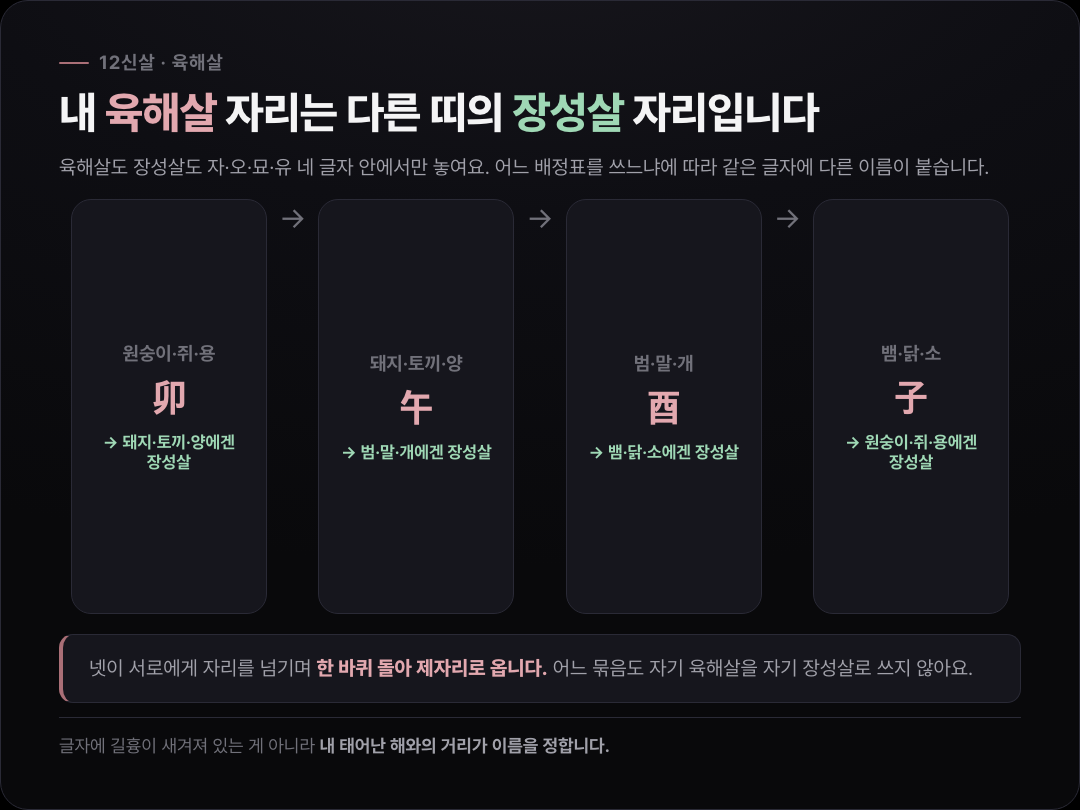
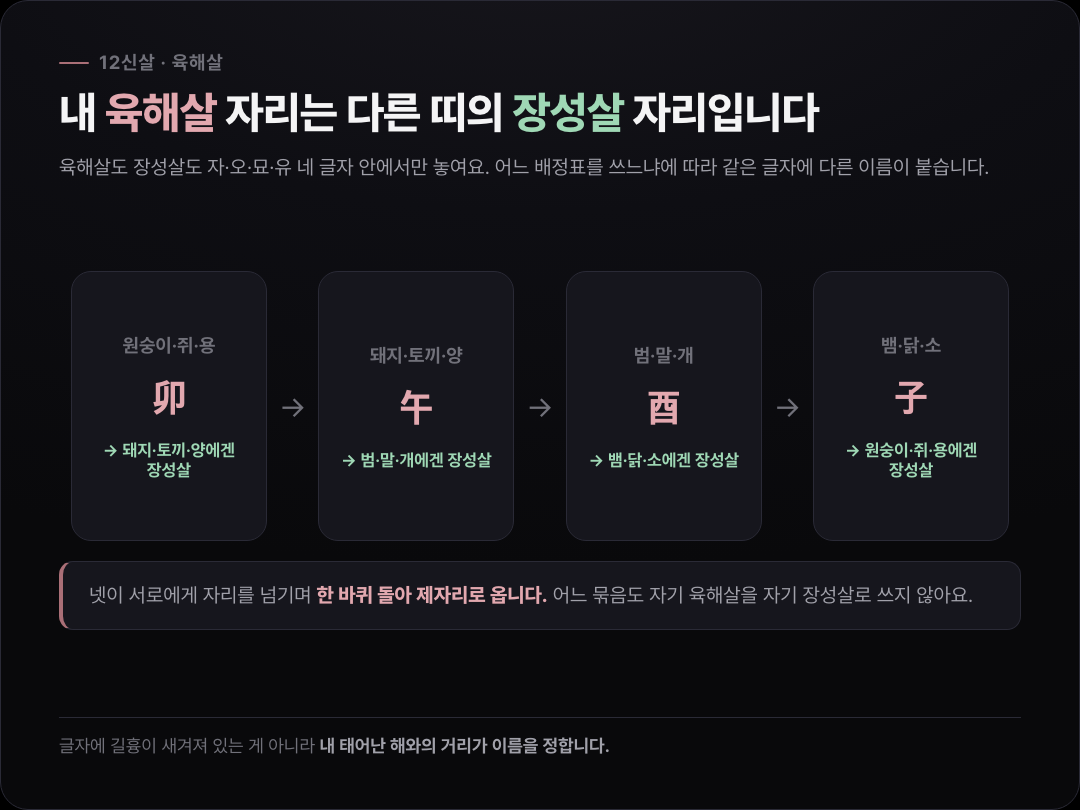
fix(stories): figure 카드 최종 손질 — 고리 레이아웃·본문 동기화·4득 서술
10장 전부 사람 눈으로 열어 본 결과 세 가지가 나왔다(검사기가 못 보는 것들이다).

① 고리 카드(yukhae-sal-1)를 밀도 CSS가 망가뜨렸다. 노드에 flex:1 을 먹이니
   화살표가 위로 뜨고 상자 속이 텅 비었다. .cyc 만 예외로 빼고 노드 자체를
   키우는(min-height 270) 쪽으로 고쳤다.
② **본문을 고치고 카드를 안 열어 옛 문장이 PNG 에 남아 있었다.** yuyoungwoo-2 가
   "네 항목 중"을 그대로 들고 있었다 — 직전 커밋에서 본문만 "판정이 도는 항목은 셋"
   으로 고쳤기 때문이다. STORIES_CHECKLIST §7-4 가 경고하는 바로 그 사고다.
③ 같은 기준으로 v-bts 도 손봤다. 시 미상인데 "네 항목 중 두 곳 확보"라고 써서
   득시가 판정 불가라는 점이 안 드러났다(§7-1.5). 본문·카드 동시 수정.

오버플로 검사기도 이번에 고쳤다. flex 자식은 부모 박스를 넘어도 부모의
boundingRect 를 안 늘려서, 직계 자식만 재던 이전 버전이 jangseong-sal-2 의
45px 침범을 두 번 통과시켰다. .body 전 자손을 훑어 .foot 상단 침범을 보도록 교체.

건의함 F3 추가: 육해살의 강조점이 엔진 한 줄("가까운 이와 갈등 주의")과
사전("만성 질병·체력 저하가 가장 크다")에서 갈린다. 고치지 않고 증거만 적었다.

Claude-Session: https://claude.ai/code/session_01Shjtfq4NG9ECa2LqmT2BBs

diff --git a/lib/stories/data/v-bts.ts b/lib/stories/data/v-bts.ts
@@ -110,7 +110,7 @@ export const vBts: Story = {
         },
         {
           kind: "p",
-          text: "강약은 [중화신강](/dict/gangyak/junghwa-singang)으로 잡혀요. 네 항목 중 태어난 달과 태어난 날 두 곳을 확보한 상태입니다. 한쪽으로 크게 기울지 않은, 가운데에 가까운 자리예요.",
+          text: "강약은 [중화신강](/dict/gangyak/junghwa-singang)으로 잡혀요. 시각이 비어 판정이 도는 항목은 셋인데, 그중 태어난 달과 태어난 날 두 곳을 확보한 상태입니다. 한쪽으로 크게 기울지 않은, 가운데에 가까운 자리예요.",
         },
       ],
     },

diff --git a/docs/REPORT_DEFECT_BOX.md b/docs/REPORT_DEFECT_BOX.md
@@ -190,6 +190,8 @@
 | F1 | **결과 화면 배지는 "년살"인데 사주사전 항목명은 "도화"다.** 엔진 `TWELVE_SHINSAL_NAMES[4]="년살"` / `dict/data/sipisinsal/dohwa.ts`의 `name:"도화"`. 사전 본문이 "12신살에서 도화는 '연살(年殺)'이라고도 부릅니다"로 별칭을 밝히긴 하나, 배지에서 본 이름으로 사전을 검색하면 항목이 안 잡힌다 | `scripts/_verify-12shinsal-table.mts` 대조 60건 중 유일한 표기 불일치. 조견표 셀 값 자체는 4/4 일치 |
 | F2 | **B3 재확인 — 장성살 `good` 분류의 층간 모순이 발행 콘텐츠에도 들어가 있다.** `dict/sipisinsal/jangseongsal.ts:27`이 "12신살 중 유일하게 '길성(good)'으로 분류됩니다"라고 단정하는데, 같은 사이트 `sinsal-grade.ts:20`의 길성 5종에 장성은 없다. 삼명통회도 조건부 길("貴煞加臨乃為吉慶") | `dict/sipisinsal/jangseongsal.ts:27` vs `sinsal-grade.ts:20` 직접 대조 |
 
+| F3 | **육해살의 강조점이 결과 화면과 사전에서 갈린다.** 엔진 `SHINSAL_DESCRIPTIONS["육해살"]`은 한 줄로 "가까운 이와 갈등 주의"만 내보내는데, `dict/sipisinsal/yukhaesal.ts:32`는 "그중에서도 **만성 질병·체력 저하**의 의미가 가장 큽니다"라고 적는다. 유료 사용자가 결과 화면에서 본 것과 사전에서 읽는 것의 무게중심이 다르다 | 두 파일 직접 대조. 매거진 육해살 글은 사전 서술을 그대로 옮기되 사전 자신의 완화 문장("단정할 수 없다")을 같이 실어 공포를 막았다 |
+
 > ★F1·F2 모두 이번 PR에서 **고치지 않는다**(건의함 원칙 — 증거만 모아 일괄 수정).
 > 대신 매거진 장성살 글에 **집필 제약**으로 건다: 사전의 "유일한 길성" 단정을 그대로 옮기지 말고
 > "12신살 체계 안에서의 분류"로 범위를 한정할 것. **critic 라운드의 통과 조건**으로 확인한다.
